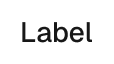
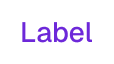
Primary is violet-700 in light mode (chosen in Figma)

Changed region(s): [[0.1842, 0.3438, 0.8158, 0.6875]]

diff --git a/src/styleguide/BrandPage.tsx b/src/styleguide/BrandPage.tsx
@@ -58,7 +58,7 @@ export function BrandPage() {
             'Use the full logo at 24px tall or more; below that, use the symbol alone.',
             'Place it on the brand surface, the page background, or a photo with enough contrast. Never on violet.',
             'Do not recolor, outline, stretch, rotate or add effects. Do not retype the wordmark: it is outlined Bricolage Grotesque ExtraBold.',
-            'Brand colors are for the logo and brand moments only. Components keep the neutral shadcn theme.',
+            'Brand colors are for the logo, brand moments and the primary color in light mode (violet-700). Other components keep the neutral shadcn theme.',
           ]}
         />
       </Section>

diff --git a/src/styles/tokens.css b/src/styles/tokens.css
@@ -55,7 +55,7 @@
   --neutral-950: oklch(14.5% 0 0);
   --popover: var(--neutral-0);
   --popover-foreground: var(--neutral-950);
-  --primary: var(--neutral-900);
+  --primary: var(--violet-700);
   --primary-foreground: var(--neutral-50);
   --radius: var(--radius-base);
   --radius-base: 0.625rem;

diff --git a/CLAUDE.md b/CLAUDE.md
@@ -35,7 +35,7 @@ Vite + React + TypeScript, shadcn/ui (components copied into `src/components/ui`
 - Card (`card.tsx`): designed in Figma by David ("Card - Nova - Confirmation", node 5021:12383), brought to code in Phase 4.
 - Pagination (`pagination.tsx`): from the kit's "Pagination" (node 1962:14050), built from our Buttons; number buttons map Figma `Active=On|Off` to `isActive`.
 - Input (`input.tsx`): code first. shadcn's Input plus a hover state; the Figma component "Input" (page "Input (style-bender)", node 5064:12273) was generated from it. Focus and error rings use `--ring-focus` / `--ring-error` (Figma cannot fade a variable, so faded colors are tokens).
-- Brand (`logo.tsx`: `Logo`, `LogoMark`): designed in Claude Design, built in Figma as "Symbol" (5083:22) and "Logo" (5083:23) on page "Brand (style-bender)", exported as outlined SVG. Colors are `violet`/`ink` primitives and `brand-*` roles; brand colors are for the logo only, components stay neutral. `public/favicon.svg` copies the brand hex values (browsers can't read CSS variables there).
+- Brand (`logo.tsx`: `Logo`, `LogoMark`): designed in Claude Design, built in Figma as "Symbol" (5083:22) and "Logo" (5083:23) on page "Brand (style-bender)", exported as outlined SVG. Colors are `violet`/`ink` primitives and `brand-*` roles; brand colors are for the logo and for `--primary` in light mode (violet-700, chosen in Figma by Vishal on 2026-10-20); other components stay neutral. `public/favicon.svg` copies the brand hex values (browsers can't read CSS variables there).
 - Library (`level: "library"` in `figma-map.json`, docs in `src/styleguide/library/batch*.tsx`): the rest of shadcn's set, about 55 components. Each is token-clean, mapped to the kit's Figma component and checked by parity, with a 4-tab docs page. There is no Figma render or pixel diff at this level. Popover and Collapsible are code only (the free kit has neither). Data Table uses `@tanstack/react-table` v8 (shadcn's docs target v8). Form controls (Select, Textarea, Input Group, Input OTP, Native Select, Combobox) share Input's `--ring-focus` / `--ring-error` rings and background.
 - The style guide app follows Carbon: Foundations and Components sections; each component page has Guidelines, Specifications, Code and Accessibility tabs, with live examples rendered by the app itself.
 - No Storybook.

diff --git a/docs/lesson-log.md b/docs/lesson-log.md
@@ -236,3 +236,11 @@ Putting the tool-cost constraint in the brief up front kept the whole session in
 > Can I create this DS in Figma from the repo I have?
 
 Generating Figma from Git (instead of syncing a kit) starts the two sides at 1:1, so parity only has to catch future drift.
+
+## 2026-10-20: First design change from Figma to code (primary → violet)
+
+**What we did.** Vishal changed `Color → surface/primary → Light` in Figma from `neutral/900` to `violet/700`. A fresh snapshot made `npm run parity` fail with exactly one difference (`--primary`, light: code `#171717`, Figma `#6d28d9`). Following "Git is the source of truth", Claude stopped and asked; Vishal chose Figma. Then: `tokens/light.tokens.json` primary → `{primitive.violet.700}`, `npm run tokens`, re-exported the three renders that show primary (Primary button, Link button, Card), and updated the "components stay neutral" notes in CLAUDE.md and the Brand page.
+
+**Results.** Parity ✔ 1:1, pixel diff ✔, build ✔. White on violet-700 is about 7:1 contrast.
+
+**Worth repeating.** The loop is: change Figma → snapshot → parity shows the diff → a human picks the winner → update tokens → re-export affected renders → commit (the hook re-checks) → push (CI re-checks).
